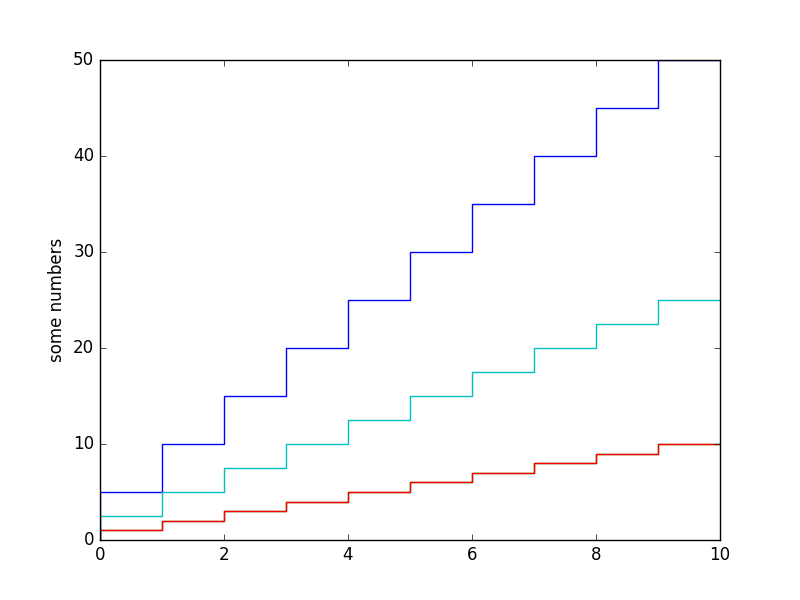
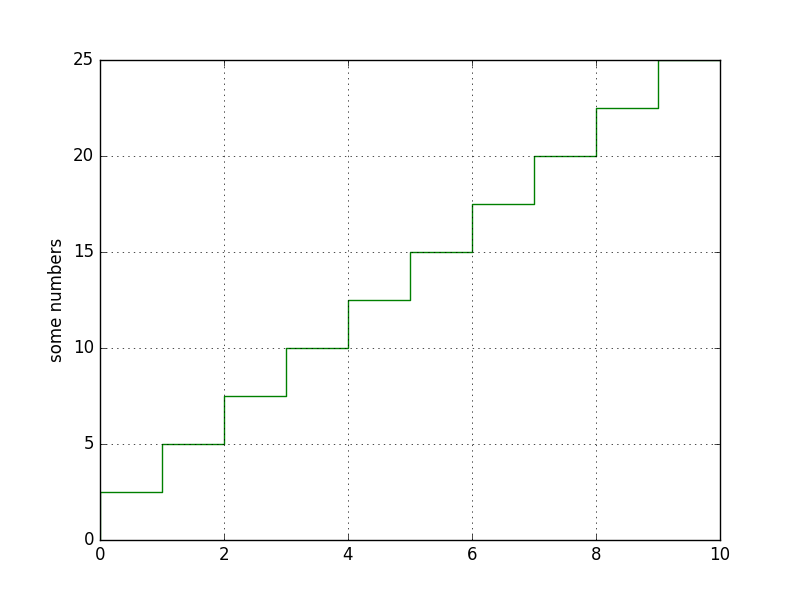
Adicionar funcionalidades a tela do modo de operação
Adicionados:

- Botão OK para selecionar
- Aumento da tela de plot

diff --git a/PyQt/fifdialog.py b/PyQt/fifdialog.py
@@ -50,24 +50,28 @@ class Ui_fifDialog(object):
         self.label.setText(_fromUtf8(""))
         self.label.setObjectName(_fromUtf8("label"))
         self.pushButton_2 = QtGui.QPushButton(fifDialog)
-        self.pushButton_2.setGeometry(QtCore.QRect(20, 200, 361, 51))
+        self.pushButton_2.setGeometry(QtCore.QRect(20, 200, 241, 51))
         self.pushButton_2.setObjectName(_fromUtf8("pushButton_2"))
         self.pushButton_3 = QtGui.QPushButton(fifDialog)
-        self.pushButton_3.setGeometry(QtCore.QRect(20, 260, 361, 51))
+        self.pushButton_3.setGeometry(QtCore.QRect(20, 260, 241, 51))
         self.pushButton_3.setObjectName(_fromUtf8("pushButton_3"))
         self.pushButton_4 = QtGui.QPushButton(fifDialog)
-        self.pushButton_4.setGeometry(QtCore.QRect(20, 320, 361, 51))
+        self.pushButton_4.setGeometry(QtCore.QRect(20, 320, 241, 51))
         self.pushButton_4.setObjectName(_fromUtf8("pushButton_4"))
         self.pushButton_5 = QtGui.QPushButton(fifDialog)
-        self.pushButton_5.setGeometry(QtCore.QRect(100, 390, 131, 51))
+        self.pushButton_5.setGeometry(QtCore.QRect(20, 380, 111, 51))
         self.pushButton_5.setStyleSheet(_fromUtf8("font: 14pt \"Arial\";\n"
 "\n"
 ""))
         self.pushButton_5.setObjectName(_fromUtf8("pushButton_5"))
+        self.pushButton_6 = QtGui.QPushButton(fifDialog)
+        self.pushButton_6.setGeometry(QtCore.QRect(150, 380, 111, 51))
+        self.pushButton_6.setStyleSheet(_fromUtf8("font: 14pt \"Arial\";\n""\n"""))
         pylab_plot.plotMode(self,1)
         self.pic = QtGui.QLabel(fifDialog)
-        self.pic.setGeometry(399, 180, 371, 261)
+        self.pic.setGeometry(QtCore.QRect(309, 180, 461, 261))
         self.pic.setScaledContents(True)
+        pylab_plot.plotMode(self,1)
         pixmap = QtGui.QPixmap('mode1.png')
         self.pic.setPixmap(pixmap)
         # self.frame.setFrameShape(QtGui.QFrame.StyledPanel)
@@ -79,40 +83,43 @@ class Ui_fifDialog(object):
     def retranslateUi(self, fifDialog):
         fifDialog.setWindowTitle(QtGui.QApplication.translate("fifDialog", "Dialog", None, QtGui.QApplication.UnicodeUTF8))
         self.label_2.setText(QtGui.QApplication.translate("fifDialog", "MODO DE OPERAÇÃO", None, QtGui.QApplication.UnicodeUTF8))
-        self.pushButton_2.setText(QtGui.QApplication.translate("fifDialog", "1 W por minuto", None, QtGui.QApplication.UnicodeUTF8))
+        self.pushButton_2.setText(QtGui.QApplication.translate("fifDialog", "2 W por minuto", None, QtGui.QApplication.UnicodeUTF8))
         self.pushButton_3.setText(QtGui.QApplication.translate("fifDialog", "2.5 W por minuto", None, QtGui.QApplication.UnicodeUTF8))
         self.pushButton_4.setText(QtGui.QApplication.translate("fifDialog", "5 W por minuto", None, QtGui.QApplication.UnicodeUTF8))
         self.pushButton_5.setText(QtGui.QApplication.translate("fifDialog", "VOLTAR", None, QtGui.QApplication.UnicodeUTF8))
+        self.pushButton_6.setText(QtGui.QApplication.translate("fifDialog", "OK", None, QtGui.QApplication.UnicodeUTF8))
 
         QtCore.QObject.connect(self.pushButton_2 , QtCore.SIGNAL("clicked()") , self.mode1)
         QtCore.QObject.connect(self.pushButton_3 , QtCore.SIGNAL("clicked()") , self.mode2)
         QtCore.QObject.connect(self.pushButton_4 , QtCore.SIGNAL("clicked()") , self.mode3)
         QtCore.QObject.connect(self.pushButton_5 , QtCore.SIGNAL("clicked()") , fifDialog.close)
+        QtCore.QObject.connect(self.pushButton_6 , QtCore.SIGNAL("clicked()") , fifDialog.close)
+
 
 
     def mode1 (self):
         global pixmap
-        parametros.todos['potenciaStep'] = 1
+        parametros.todos['potenciaStep'] = 2
         parametros.todos['tempoStep'] = 1
         pylab_plot.plotMode(self,1)
-        pixmap = QtGui.QPixmap('mode2.png')
+        pixmap = QtGui.QPixmap('mode1.png')
         self.pic.setPixmap(pixmap)  
-        # fifDialog.close()
+
 
     def mode2 (self):
         parametros.todos['potenciaStep'] = 2.5
         parametros.todos['tempoStep'] = 1
         pylab_plot.plotMode(self,2)
-        pixmap = QtGui.QPixmap('mode3.png')
+        pixmap = QtGui.QPixmap('mode2.png')
         self.pic.setPixmap(pixmap)
-        # fifDialog.close()
+
 
     def mode3 (self):
         parametros.todos['potenciaStep'] = 5
         parametros.todos['tempoStep'] = 1
-        pixmap = QtGui.QPixmap('mode.png')
-        pylab_plot.plotMode(self,3)   
-        # fifDialog.close()
+        pylab_plot.plotMode(self,3) 
+        pixmap = QtGui.QPixmap('mode3.png')  
+        self.pic.setPixmap(pixmap)  
 
 if __name__ == "__main__":
     import sys

diff --git a/PyQt/pylab_plot.py b/PyQt/pylab_plot.py
@@ -9,7 +9,10 @@ def plotMode(self,mode):
 	os.listdir("/Users/MatiasPedro25/Professional/2016_1/LAB/Software/EVOLUTION/Sofia_Interface/PyQt")
 	img = "mode" + str(mode) + ".png"
 	print img
-	os.system("rm "+str(mode))
+	sentence = "rm " + img
+	print sentence
+	os.system(sentence)
+	# os.system("rm mode1.png")
 	time_step = parametros.todos['tempoStep']
 	timeValue = 0 	#Tempo sempre inicia em zero
 	potStep = parametros.todos['potenciaStep']
@@ -24,8 +27,20 @@ def plotMode(self,mode):
 		timeValue += time_step
 		x.append(timeValue)
 
-	plt.step(x,y)
+	if mode == 1:
+		color = 'blue'
+	elif mode == 2:
+		color = 'green'
+	else:
+		color = 'red'
+
+	plt.step(x,y,color)
 	plt.ylabel('some numbers')
 	plt.grid()
 	# plt.show()
 	plt.savefig(img)
+	plt.close()
+
+
+
+# plotMode(plotMode,1)

diff --git a/PyQt/parametros.py b/PyQt/parametros.py
@@ -1,8 +1,8 @@
 todos = {
 'potenciaInicial': 0,
 'potenciaRT': 0,
-'potenciaStep':5, 
-'potenciaFinal': 25,
+'potenciaStep':2, 
+'potenciaFinal': 20,
 'tempo':10,
 'tempoStep':1, 
 'modo': 1};
